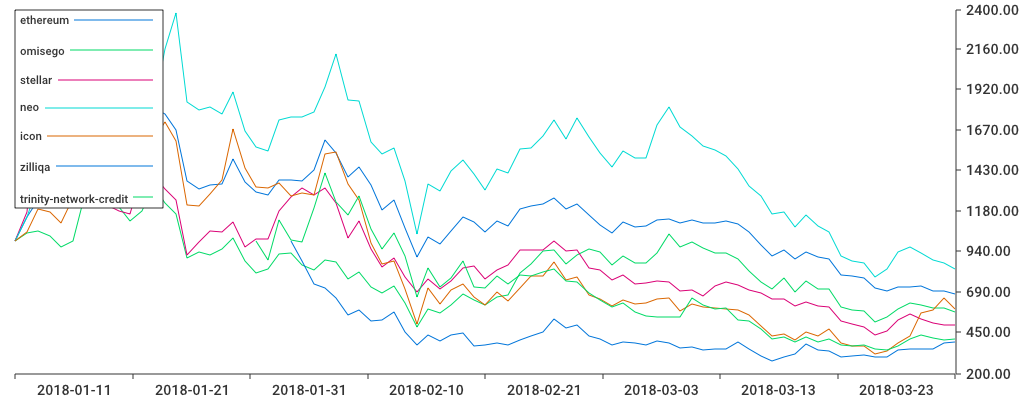
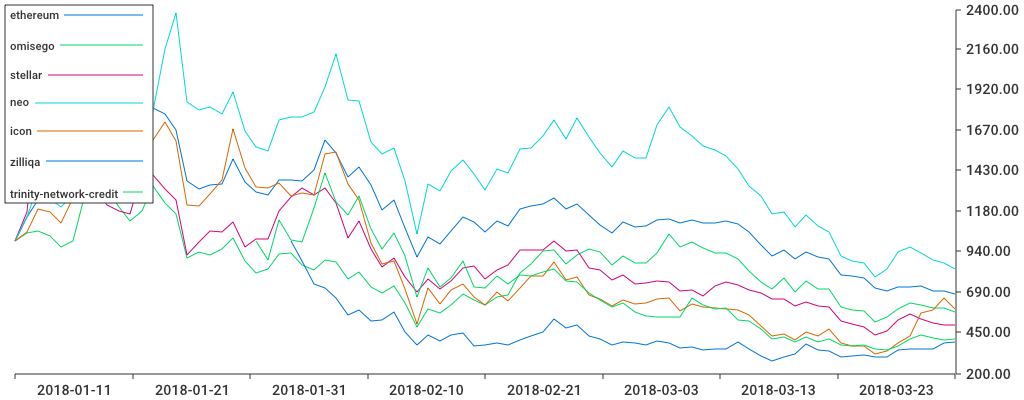
update

Changed region(s): [[0.0, 0.0, 0.1562, 0.54], [0.1562, 0.15, 0.1875, 0.18]]

diff --git a/util/chart.go b/util/chart.go
@@ -166,6 +166,7 @@ func DrawPortfolioComparisonChart(investAmount float64, investDate string, compa
 	logToFile := ""
 	for c := 0; c < len(currencies); c++ {
 		logToFile += "### " + currencies[c] + "\n"
+		logToFile += "[chart](https://raw.githubusercontent.com/cryptocurrencyfund/data/develop/charts/portfolio/" + currencies[c] + ".jpg)"
 		fmt.Println("[" + currencies[c] + "]")
 		for k, v := range allTs[c] {
 			current := fmt.Sprintf("Date bought: %s - Current Date: %s - Valuation: %.2f - Price: %.2f \n",
@@ -205,7 +206,7 @@ func DrawPortfolioComparisonChart(investAmount float64, investDate string, compa
 	}
 
 	graph.Elements = []chart.Renderable{
-		chart.Legend(&graph),
+		chart.LegendLeft(&graph),
 	}
 
 	collector := &chart.ImageWriter{}

diff --git a/charts/portfolio/exchanges.md b/charts/portfolio/exchanges.md
@@ -1,5 +1,5 @@
 ### binance-coin
-* Date bought: 2018-01-01 - Current Date: 2018-03-24 00:00:00 +0000 UTC - Valuation: 1556.48 - Price: 13.09 
+[chart](https://raw.githubusercontent.com/cryptocurrencyfund/data/develop/charts/portfolio/binance-coin.jpg)* Date bought: 2018-01-01 - Current Date: 2018-03-24 00:00:00 +0000 UTC - Valuation: 1556.48 - Price: 13.09 
 * Date bought: 2018-01-01 - Current Date: 2018-03-23 00:00:00 +0000 UTC - Valuation: 1395.96 - Price: 11.74 
 * Date bought: 2018-01-01 - Current Date: 2018-03-22 00:00:00 +0000 UTC - Valuation: 1197.38 - Price: 10.07 
 * Date bought: 2018-01-01 - Current Date: 2018-03-21 00:00:00 +0000 UTC - Valuation: 1186.68 - Price: 9.98 
@@ -83,7 +83,7 @@
 * Date bought: 2018-01-01 - Current Date: 2018-01-02 00:00:00 +0000 UTC - Valuation: 1051.13 - Price: 8.84 
 * Date bought: 2018-01-01 - Current Date: 2018-01-01 00:00:00 +0000 UTC - Valuation: 1000.00 - Price: 8.41 
 ### augur
-* Date bought: 2018-01-01 - Current Date: 2018-03-24 00:00:00 +0000 UTC - Valuation: 466.57 - Price: 34.75 
+[chart](https://raw.githubusercontent.com/cryptocurrencyfund/data/develop/charts/portfolio/augur.jpg)* Date bought: 2018-01-01 - Current Date: 2018-03-24 00:00:00 +0000 UTC - Valuation: 466.57 - Price: 34.75 
 * Date bought: 2018-01-01 - Current Date: 2018-03-23 00:00:00 +0000 UTC - Valuation: 472.48 - Price: 35.19 
 * Date bought: 2018-01-01 - Current Date: 2018-03-22 00:00:00 +0000 UTC - Valuation: 472.48 - Price: 35.19 
 * Date bought: 2018-01-01 - Current Date: 2018-03-21 00:00:00 +0000 UTC - Valuation: 485.37 - Price: 36.15 
@@ -167,7 +167,7 @@
 * Date bought: 2018-01-01 - Current Date: 2018-01-02 00:00:00 +0000 UTC - Valuation: 1067.00 - Price: 79.47 
 * Date bought: 2018-01-01 - Current Date: 2018-01-01 00:00:00 +0000 UTC - Valuation: 1000.00 - Price: 74.48 
 ### gnosis-gno
-* Date bought: 2018-01-01 - Current Date: 2018-03-24 00:00:00 +0000 UTC - Valuation: 345.71 - Price: 78.50 
+[chart](https://raw.githubusercontent.com/cryptocurrencyfund/data/develop/charts/portfolio/gnosis-gno.jpg)* Date bought: 2018-01-01 - Current Date: 2018-03-24 00:00:00 +0000 UTC - Valuation: 345.71 - Price: 78.50 
 * Date bought: 2018-01-01 - Current Date: 2018-03-23 00:00:00 +0000 UTC - Valuation: 357.55 - Price: 81.19 
 * Date bought: 2018-01-01 - Current Date: 2018-03-22 00:00:00 +0000 UTC - Valuation: 373.85 - Price: 84.89 
 * Date bought: 2018-01-01 - Current Date: 2018-03-21 00:00:00 +0000 UTC - Valuation: 397.06 - Price: 90.16 
@@ -251,7 +251,7 @@
 * Date bought: 2018-01-01 - Current Date: 2018-01-02 00:00:00 +0000 UTC - Valuation: 1182.94 - Price: 268.61 
 * Date bought: 2018-01-01 - Current Date: 2018-01-01 00:00:00 +0000 UTC - Valuation: 1000.00 - Price: 227.07 
 ### 0x
-* Date bought: 2018-01-01 - Current Date: 2018-03-24 00:00:00 +0000 UTC - Valuation: 681.20 - Price: 0.60 
+[chart](https://raw.githubusercontent.com/cryptocurrencyfund/data/develop/charts/portfolio/0x.jpg)* Date bought: 2018-01-01 - Current Date: 2018-03-24 00:00:00 +0000 UTC - Valuation: 681.20 - Price: 0.60 
 * Date bought: 2018-01-01 - Current Date: 2018-03-23 00:00:00 +0000 UTC - Valuation: 631.48 - Price: 0.55 
 * Date bought: 2018-01-01 - Current Date: 2018-03-22 00:00:00 +0000 UTC - Valuation: 659.00 - Price: 0.58 
 * Date bought: 2018-01-01 - Current Date: 2018-03-21 00:00:00 +0000 UTC - Valuation: 663.15 - Price: 0.58 
@@ -335,7 +335,7 @@
 * Date bought: 2018-01-01 - Current Date: 2018-01-02 00:00:00 +0000 UTC - Valuation: 1021.60 - Price: 0.90 
 * Date bought: 2018-01-01 - Current Date: 2018-01-01 00:00:00 +0000 UTC - Valuation: 1000.00 - Price: 0.88 
 ### kyber-network
-* Date bought: 2018-01-01 - Current Date: 2018-03-24 00:00:00 +0000 UTC - Valuation: 470.59 - Price: 1.44 
+[chart](https://raw.githubusercontent.com/cryptocurrencyfund/data/develop/charts/portfolio/kyber-network.jpg)* Date bought: 2018-01-01 - Current Date: 2018-03-24 00:00:00 +0000 UTC - Valuation: 470.59 - Price: 1.44 
 * Date bought: 2018-01-01 - Current Date: 2018-03-23 00:00:00 +0000 UTC - Valuation: 441.18 - Price: 1.35 
 * Date bought: 2018-01-01 - Current Date: 2018-03-22 00:00:00 +0000 UTC - Valuation: 421.57 - Price: 1.29 
 * Date bought: 2018-01-01 - Current Date: 2018-03-21 00:00:00 +0000 UTC - Valuation: 431.37 - Price: 1.32 
@@ -419,7 +419,7 @@
 * Date bought: 2018-01-01 - Current Date: 2018-01-02 00:00:00 +0000 UTC - Valuation: 1117.65 - Price: 3.42 
 * Date bought: 2018-01-01 - Current Date: 2018-01-01 00:00:00 +0000 UTC - Valuation: 1000.00 - Price: 3.06 
 ### bancor
-* Date bought: 2018-01-01 - Current Date: 2018-03-24 00:00:00 +0000 UTC - Valuation: 555.97 - Price: 2.98 
+[chart](https://raw.githubusercontent.com/cryptocurrencyfund/data/develop/charts/portfolio/bancor.jpg)* Date bought: 2018-01-01 - Current Date: 2018-03-24 00:00:00 +0000 UTC - Valuation: 555.97 - Price: 2.98 
 * Date bought: 2018-01-01 - Current Date: 2018-03-23 00:00:00 +0000 UTC - Valuation: 569.03 - Price: 3.05 
 * Date bought: 2018-01-01 - Current Date: 2018-03-22 00:00:00 +0000 UTC - Valuation: 559.70 - Price: 3.00 
 * Date bought: 2018-01-01 - Current Date: 2018-03-21 00:00:00 +0000 UTC - Valuation: 578.36 - Price: 3.10 
@@ -503,7 +503,7 @@
 * Date bought: 2018-01-01 - Current Date: 2018-01-02 00:00:00 +0000 UTC - Valuation: 1121.27 - Price: 6.01 
 * Date bought: 2018-01-01 - Current Date: 2018-01-01 00:00:00 +0000 UTC - Valuation: 1000.00 - Price: 5.36 
 ### airswap
-* Date bought: 2018-01-01 - Current Date: 2018-03-24 00:00:00 +0000 UTC - Valuation: 535.35 - Price: 0.31 
+[chart](https://raw.githubusercontent.com/cryptocurrencyfund/data/develop/charts/portfolio/airswap.jpg)* Date bought: 2018-01-01 - Current Date: 2018-03-24 00:00:00 +0000 UTC - Valuation: 535.35 - Price: 0.31 
 * Date bought: 2018-01-01 - Current Date: 2018-03-23 00:00:00 +0000 UTC - Valuation: 482.14 - Price: 0.28 
 * Date bought: 2018-01-01 - Current Date: 2018-03-22 00:00:00 +0000 UTC - Valuation: 508.01 - Price: 0.30 
 * Date bought: 2018-01-01 - Current Date: 2018-03-21 00:00:00 +0000 UTC - Valuation: 545.93 - Price: 0.32 
@@ -587,7 +587,7 @@
 * Date bought: 2018-01-01 - Current Date: 2018-01-02 00:00:00 +0000 UTC - Valuation: 944.07 - Price: 0.55 
 * Date bought: 2018-01-01 - Current Date: 2018-01-01 00:00:00 +0000 UTC - Valuation: 1000.00 - Price: 0.59 
 ### republic-protocol
-* Date bought: 2018-01-01 - Current Date: 2018-03-24 00:00:00 +0000 UTC - Valuation: 545.17 - Price: 0.05 
+[chart](https://raw.githubusercontent.com/cryptocurrencyfund/data/develop/charts/portfolio/republic-protocol.jpg)* Date bought: 2018-01-01 - Current Date: 2018-03-24 00:00:00 +0000 UTC - Valuation: 545.17 - Price: 0.05 
 * Date bought: 2018-01-01 - Current Date: 2018-03-23 00:00:00 +0000 UTC - Valuation: 560.13 - Price: 0.05 
 * Date bought: 2018-01-01 - Current Date: 2018-03-22 00:00:00 +0000 UTC - Valuation: 592.40 - Price: 0.05 
 * Date bought: 2018-01-01 - Current Date: 2018-03-21 00:00:00 +0000 UTC - Valuation: 585.36 - Price: 0.05 

diff --git a/charts/portfolio/large cap.md b/charts/portfolio/large cap.md
@@ -1,5 +1,5 @@
 ### bitcoin
-* Date bought: 2018-01-01 - Current Date: 2018-03-24 00:00:00 +0000 UTC - Valuation: 634.69 - Price: 8668.12 
+[chart](https://raw.githubusercontent.com/cryptocurrencyfund/data/develop/charts/portfolio/bitcoin.jpg)* Date bought: 2018-01-01 - Current Date: 2018-03-24 00:00:00 +0000 UTC - Valuation: 634.69 - Price: 8668.12 
 * Date bought: 2018-01-01 - Current Date: 2018-03-23 00:00:00 +0000 UTC - Valuation: 650.18 - Price: 8879.62 
 * Date bought: 2018-01-01 - Current Date: 2018-03-22 00:00:00 +0000 UTC - Valuation: 639.11 - Price: 8728.47 
 * Date bought: 2018-01-01 - Current Date: 2018-03-21 00:00:00 +0000 UTC - Valuation: 653.81 - Price: 8929.28 
@@ -83,7 +83,7 @@
 * Date bought: 2018-01-01 - Current Date: 2018-01-02 00:00:00 +0000 UTC - Valuation: 1097.01 - Price: 14982.10 
 * Date bought: 2018-01-01 - Current Date: 2018-01-01 00:00:00 +0000 UTC - Valuation: 1000.00 - Price: 13657.20 
 ### ethereum
-* Date bought: 2018-01-01 - Current Date: 2018-03-24 00:00:00 +0000 UTC - Valuation: 681.35 - Price: 526.44 
+[chart](https://raw.githubusercontent.com/cryptocurrencyfund/data/develop/charts/portfolio/ethereum.jpg)* Date bought: 2018-01-01 - Current Date: 2018-03-24 00:00:00 +0000 UTC - Valuation: 681.35 - Price: 526.44 
 * Date bought: 2018-01-01 - Current Date: 2018-03-23 00:00:00 +0000 UTC - Valuation: 698.41 - Price: 539.62 
 * Date bought: 2018-01-01 - Current Date: 2018-03-22 00:00:00 +0000 UTC - Valuation: 698.51 - Price: 539.70 
 * Date bought: 2018-01-01 - Current Date: 2018-03-21 00:00:00 +0000 UTC - Valuation: 727.03 - Price: 561.73 
@@ -167,7 +167,7 @@
 * Date bought: 2018-01-01 - Current Date: 2018-01-02 00:00:00 +0000 UTC - Valuation: 1144.70 - Price: 884.44 
 * Date bought: 2018-01-01 - Current Date: 2018-01-01 00:00:00 +0000 UTC - Valuation: 1000.00 - Price: 772.64 
 ### ripple
-* Date bought: 2018-01-01 - Current Date: 2018-03-24 00:00:00 +0000 UTC - Valuation: 268.31 - Price: 0.64 
+[chart](https://raw.githubusercontent.com/cryptocurrencyfund/data/develop/charts/portfolio/ripple.jpg)* Date bought: 2018-01-01 - Current Date: 2018-03-24 00:00:00 +0000 UTC - Valuation: 268.31 - Price: 0.64 
 * Date bought: 2018-01-01 - Current Date: 2018-03-23 00:00:00 +0000 UTC - Valuation: 269.11 - Price: 0.64 
 * Date bought: 2018-01-01 - Current Date: 2018-03-22 00:00:00 +0000 UTC - Valuation: 277.30 - Price: 0.66 
 * Date bought: 2018-01-01 - Current Date: 2018-03-21 00:00:00 +0000 UTC - Valuation: 290.24 - Price: 0.69 
@@ -251,7 +251,7 @@
 * Date bought: 2018-01-01 - Current Date: 2018-01-02 00:00:00 +0000 UTC - Valuation: 1037.66 - Price: 2.48 
 * Date bought: 2018-01-01 - Current Date: 2018-01-01 00:00:00 +0000 UTC - Valuation: 1000.00 - Price: 2.39 
 ### litecoin
-* Date bought: 2018-01-01 - Current Date: 2018-03-24 00:00:00 +0000 UTC - Valuation: 696.98 - Price: 159.63 
+[chart](https://raw.githubusercontent.com/cryptocurrencyfund/data/develop/charts/portfolio/litecoin.jpg)* Date bought: 2018-01-01 - Current Date: 2018-03-24 00:00:00 +0000 UTC - Valuation: 696.98 - Price: 159.63 
 * Date bought: 2018-01-01 - Current Date: 2018-03-23 00:00:00 +0000 UTC - Valuation: 732.79 - Price: 167.83 
 * Date bought: 2018-01-01 - Current Date: 2018-03-22 00:00:00 +0000 UTC - Valuation: 714.62 - Price: 163.67 
 * Date bought: 2018-01-01 - Current Date: 2018-03-21 00:00:00 +0000 UTC - Valuation: 738.11 - Price: 169.05 
@@ -335,7 +335,7 @@
 * Date bought: 2018-01-01 - Current Date: 2018-01-02 00:00:00 +0000 UTC - Valuation: 1116.36 - Price: 255.68 
 * Date bought: 2018-01-01 - Current Date: 2018-01-01 00:00:00 +0000 UTC - Valuation: 1000.00 - Price: 229.03 
 ### bitcoin-cash
-* Date bought: 2018-01-01 - Current Date: 2018-03-24 00:00:00 +0000 UTC - Valuation: 403.82 - Price: 982.30 
+[chart](https://raw.githubusercontent.com/cryptocurrencyfund/data/develop/charts/portfolio/bitcoin-cash.jpg)* Date bought: 2018-01-01 - Current Date: 2018-03-24 00:00:00 +0000 UTC - Valuation: 403.82 - Price: 982.30 
 * Date bought: 2018-01-01 - Current Date: 2018-03-23 00:00:00 +0000 UTC - Valuation: 419.08 - Price: 1019.43 
 * Date bought: 2018-01-01 - Current Date: 2018-03-22 00:00:00 +0000 UTC - Valuation: 415.83 - Price: 1011.52 
 * Date bought: 2018-01-01 - Current Date: 2018-03-21 00:00:00 +0000 UTC - Valuation: 424.84 - Price: 1033.45 
@@ -419,7 +419,7 @@
 * Date bought: 2018-01-01 - Current Date: 2018-01-02 00:00:00 +0000 UTC - Valuation: 1114.47 - Price: 2711.00 
 * Date bought: 2018-01-01 - Current Date: 2018-01-01 00:00:00 +0000 UTC - Valuation: 1000.00 - Price: 2432.54 
 ### zcash
-* Date bought: 2018-01-01 - Current Date: 2018-03-24 00:00:00 +0000 UTC - Valuation: 421.58 - Price: 243.33 
+[chart](https://raw.githubusercontent.com/cryptocurrencyfund/data/develop/charts/portfolio/zcash.jpg)* Date bought: 2018-01-01 - Current Date: 2018-03-24 00:00:00 +0000 UTC - Valuation: 421.58 - Price: 243.33 
 * Date bought: 2018-01-01 - Current Date: 2018-03-23 00:00:00 +0000 UTC - Valuation: 445.04 - Price: 256.87 
 * Date bought: 2018-01-01 - Current Date: 2018-03-22 00:00:00 +0000 UTC - Valuation: 431.85 - Price: 249.26 
 * Date bought: 2018-01-01 - Current Date: 2018-03-21 00:00:00 +0000 UTC - Valuation: 450.58 - Price: 260.07 
@@ -503,7 +503,7 @@
 * Date bought: 2018-01-01 - Current Date: 2018-01-02 00:00:00 +0000 UTC - Valuation: 1010.95 - Price: 583.51 
 * Date bought: 2018-01-01 - Current Date: 2018-01-01 00:00:00 +0000 UTC - Valuation: 1000.00 - Price: 577.19 
 ### monero
-* Date bought: 2018-01-01 - Current Date: 2018-03-24 00:00:00 +0000 UTC - Valuation: 582.63 - Price: 209.16 
+[chart](https://raw.githubusercontent.com/cryptocurrencyfund/data/develop/charts/portfolio/monero.jpg)* Date bought: 2018-01-01 - Current Date: 2018-03-24 00:00:00 +0000 UTC - Valuation: 582.63 - Price: 209.16 
 * Date bought: 2018-01-01 - Current Date: 2018-03-23 00:00:00 +0000 UTC - Valuation: 595.87 - Price: 213.91 
 * Date bought: 2018-01-01 - Current Date: 2018-03-22 00:00:00 +0000 UTC - Valuation: 592.52 - Price: 212.71 
 * Date bought: 2018-01-01 - Current Date: 2018-03-21 00:00:00 +0000 UTC - Valuation: 609.01 - Price: 218.63 

diff --git a/charts/portfolio/protocol.md b/charts/portfolio/protocol.md
@@ -1,5 +1,5 @@
 ### ethereum
-* Date bought: 2018-01-01 - Current Date: 2018-03-24 00:00:00 +0000 UTC - Valuation: 681.35 - Price: 526.44 
+[chart](https://raw.githubusercontent.com/cryptocurrencyfund/data/develop/charts/portfolio/ethereum.jpg)* Date bought: 2018-01-01 - Current Date: 2018-03-24 00:00:00 +0000 UTC - Valuation: 681.35 - Price: 526.44 
 * Date bought: 2018-01-01 - Current Date: 2018-03-23 00:00:00 +0000 UTC - Valuation: 698.41 - Price: 539.62 
 * Date bought: 2018-01-01 - Current Date: 2018-03-22 00:00:00 +0000 UTC - Valuation: 698.51 - Price: 539.70 
 * Date bought: 2018-01-01 - Current Date: 2018-03-21 00:00:00 +0000 UTC - Valuation: 727.03 - Price: 561.73 
@@ -83,7 +83,7 @@
 * Date bought: 2018-01-01 - Current Date: 2018-01-02 00:00:00 +0000 UTC - Valuation: 1144.70 - Price: 884.44 
 * Date bought: 2018-01-01 - Current Date: 2018-01-01 00:00:00 +0000 UTC - Valuation: 1000.00 - Price: 772.64 
 ### omisego
-* Date bought: 2018-01-01 - Current Date: 2018-03-24 00:00:00 +0000 UTC - Valuation: 574.24 - Price: 11.10 
+[chart](https://raw.githubusercontent.com/cryptocurrencyfund/data/develop/charts/portfolio/omisego.jpg)* Date bought: 2018-01-01 - Current Date: 2018-03-24 00:00:00 +0000 UTC - Valuation: 574.24 - Price: 11.10 
 * Date bought: 2018-01-01 - Current Date: 2018-03-23 00:00:00 +0000 UTC - Valuation: 594.93 - Price: 11.50 
 * Date bought: 2018-01-01 - Current Date: 2018-03-22 00:00:00 +0000 UTC - Valuation: 598.55 - Price: 11.57 
 * Date bought: 2018-01-01 - Current Date: 2018-03-21 00:00:00 +0000 UTC - Valuation: 613.55 - Price: 11.86 
@@ -167,7 +167,7 @@
 * Date bought: 2018-01-01 - Current Date: 2018-01-02 00:00:00 +0000 UTC - Valuation: 1050.18 - Price: 20.30 
 * Date bought: 2018-01-01 - Current Date: 2018-01-01 00:00:00 +0000 UTC - Valuation: 1000.00 - Price: 19.33 
 ### stellar
-* Date bought: 2018-01-01 - Current Date: 2018-03-24 00:00:00 +0000 UTC - Valuation: 490.45 - Price: 0.24 
+[chart](https://raw.githubusercontent.com/cryptocurrencyfund/data/develop/charts/portfolio/stellar.jpg)* Date bought: 2018-01-01 - Current Date: 2018-03-24 00:00:00 +0000 UTC - Valuation: 490.45 - Price: 0.24 
 * Date bought: 2018-01-01 - Current Date: 2018-03-23 00:00:00 +0000 UTC - Valuation: 491.96 - Price: 0.24 
 * Date bought: 2018-01-01 - Current Date: 2018-03-22 00:00:00 +0000 UTC - Valuation: 506.68 - Price: 0.24 
 * Date bought: 2018-01-01 - Current Date: 2018-03-21 00:00:00 +0000 UTC - Valuation: 530.48 - Price: 0.25 
@@ -251,7 +251,7 @@
 * Date bought: 2018-01-01 - Current Date: 2018-01-02 00:00:00 +0000 UTC - Valuation: 1176.58 - Price: 0.56 
 * Date bought: 2018-01-01 - Current Date: 2018-01-01 00:00:00 +0000 UTC - Valuation: 1000.00 - Price: 0.48 
 ### neo
-* Date bought: 2018-01-01 - Current Date: 2018-03-24 00:00:00 +0000 UTC - Valuation: 833.93 - Price: 65.73 
+[chart](https://raw.githubusercontent.com/cryptocurrencyfund/data/develop/charts/portfolio/neo.jpg)* Date bought: 2018-01-01 - Current Date: 2018-03-24 00:00:00 +0000 UTC - Valuation: 833.93 - Price: 65.73 
 * Date bought: 2018-01-01 - Current Date: 2018-03-23 00:00:00 +0000 UTC - Valuation: 869.83 - Price: 68.56 
 * Date bought: 2018-01-01 - Current Date: 2018-03-22 00:00:00 +0000 UTC - Valuation: 883.53 - Price: 69.64 
 * Date bought: 2018-01-01 - Current Date: 2018-03-21 00:00:00 +0000 UTC - Valuation: 925.53 - Price: 72.95 
@@ -335,7 +335,7 @@
 * Date bought: 2018-01-01 - Current Date: 2018-01-02 00:00:00 +0000 UTC - Valuation: 1146.03 - Price: 90.33 
 * Date bought: 2018-01-01 - Current Date: 2018-01-01 00:00:00 +0000 UTC - Valuation: 1000.00 - Price: 78.82 
 ### icon
-* Date bought: 2018-01-01 - Current Date: 2018-03-24 00:00:00 +0000 UTC - Valuation: 590.91 - Price: 3.64 
+[chart](https://raw.githubusercontent.com/cryptocurrencyfund/data/develop/charts/portfolio/icon.jpg)* Date bought: 2018-01-01 - Current Date: 2018-03-24 00:00:00 +0000 UTC - Valuation: 590.91 - Price: 3.64 
 * Date bought: 2018-01-01 - Current Date: 2018-03-23 00:00:00 +0000 UTC - Valuation: 659.09 - Price: 4.06 
 * Date bought: 2018-01-01 - Current Date: 2018-03-22 00:00:00 +0000 UTC - Valuation: 582.79 - Price: 3.59 
 * Date bought: 2018-01-01 - Current Date: 2018-03-21 00:00:00 +0000 UTC - Valuation: 563.31 - Price: 3.47 
@@ -419,7 +419,7 @@
 * Date bought: 2018-01-01 - Current Date: 2018-01-02 00:00:00 +0000 UTC - Valuation: 1053.57 - Price: 6.49 
 * Date bought: 2018-01-01 - Current Date: 2018-01-01 00:00:00 +0000 UTC - Valuation: 1000.00 - Price: 6.16 
 ### zilliqa
-* Date bought: 2018-01-01 - Current Date: 2018-03-24 00:00:00 +0000 UTC - Valuation: 391.54 - Price: 0.05 
+[chart](https://raw.githubusercontent.com/cryptocurrencyfund/data/develop/charts/portfolio/zilliqa.jpg)* Date bought: 2018-01-01 - Current Date: 2018-03-24 00:00:00 +0000 UTC - Valuation: 391.54 - Price: 0.05 
 * Date bought: 2018-01-01 - Current Date: 2018-03-23 00:00:00 +0000 UTC - Valuation: 385.71 - Price: 0.05 
 * Date bought: 2018-01-01 - Current Date: 2018-03-22 00:00:00 +0000 UTC - Valuation: 349.54 - Price: 0.05 
 * Date bought: 2018-01-01 - Current Date: 2018-03-21 00:00:00 +0000 UTC - Valuation: 348.11 - Price: 0.05 
@@ -479,7 +479,7 @@
 * Date bought: 2018-01-01 - Current Date: 2018-01-26 00:00:00 +0000 UTC - Valuation: 877.51 - Price: 0.12 
 * Date bought: 2018-01-01 - Current Date: 2018-01-25 00:00:00 +0000 UTC - Valuation: 1000.00 - Price: 0.14 
 ### trinity-network-credit
-* Date bought: 2018-01-01 - Current Date: 2018-03-24 00:00:00 +0000 UTC - Valuation: 410.78 - Price: 0.11 
+[chart](https://raw.githubusercontent.com/cryptocurrencyfund/data/develop/charts/portfolio/trinity-network-credit.jpg)* Date bought: 2018-01-01 - Current Date: 2018-03-24 00:00:00 +0000 UTC - Valuation: 410.78 - Price: 0.11 
 * Date bought: 2018-01-01 - Current Date: 2018-03-23 00:00:00 +0000 UTC - Valuation: 399.49 - Price: 0.11 
 * Date bought: 2018-01-01 - Current Date: 2018-03-22 00:00:00 +0000 UTC - Valuation: 413.98 - Price: 0.11 
 * Date bought: 2018-01-01 - Current Date: 2018-03-21 00:00:00 +0000 UTC - Valuation: 434.86 - Price: 0.12 

diff --git a/charts/portfolio/asia.md b/charts/portfolio/asia.md
@@ -1,5 +1,5 @@
 ### neo
-* Date bought: 2018-01-01 - Current Date: 2018-03-24 00:00:00 +0000 UTC - Valuation: 833.93 - Price: 65.73 
+[chart](https://raw.githubusercontent.com/cryptocurrencyfund/data/develop/charts/portfolio/neo.jpg)* Date bought: 2018-01-01 - Current Date: 2018-03-24 00:00:00 +0000 UTC - Valuation: 833.93 - Price: 65.73 
 * Date bought: 2018-01-01 - Current Date: 2018-03-23 00:00:00 +0000 UTC - Valuation: 869.83 - Price: 68.56 
 * Date bought: 2018-01-01 - Current Date: 2018-03-22 00:00:00 +0000 UTC - Valuation: 883.53 - Price: 69.64 
 * Date bought: 2018-01-01 - Current Date: 2018-03-21 00:00:00 +0000 UTC - Valuation: 925.53 - Price: 72.95 
@@ -83,7 +83,7 @@
 * Date bought: 2018-01-01 - Current Date: 2018-01-02 00:00:00 +0000 UTC - Valuation: 1146.03 - Price: 90.33 
 * Date bought: 2018-01-01 - Current Date: 2018-01-01 00:00:00 +0000 UTC - Valuation: 1000.00 - Price: 78.82 
 ### tron
-* Date bought: 2018-01-01 - Current Date: 2018-03-24 00:00:00 +0000 UTC - Valuation: 962.96 - Price: 0.05 
+[chart](https://raw.githubusercontent.com/cryptocurrencyfund/data/develop/charts/portfolio/tron.jpg)* Date bought: 2018-01-01 - Current Date: 2018-03-24 00:00:00 +0000 UTC - Valuation: 962.96 - Price: 0.05 
 * Date bought: 2018-01-01 - Current Date: 2018-03-23 00:00:00 +0000 UTC - Valuation: 795.76 - Price: 0.04 
 * Date bought: 2018-01-01 - Current Date: 2018-03-22 00:00:00 +0000 UTC - Valuation: 733.61 - Price: 0.04 
 * Date bought: 2018-01-01 - Current Date: 2018-03-21 00:00:00 +0000 UTC - Valuation: 717.81 - Price: 0.04 
@@ -167,7 +167,7 @@
 * Date bought: 2018-01-01 - Current Date: 2018-01-02 00:00:00 +0000 UTC - Valuation: 1522.04 - Price: 0.08 
 * Date bought: 2018-01-01 - Current Date: 2018-01-01 00:00:00 +0000 UTC - Valuation: 1000.00 - Price: 0.05 
 ### trinity-network-credit
-* Date bought: 2018-01-01 - Current Date: 2018-03-24 00:00:00 +0000 UTC - Valuation: 410.78 - Price: 0.11 
+[chart](https://raw.githubusercontent.com/cryptocurrencyfund/data/develop/charts/portfolio/trinity-network-credit.jpg)* Date bought: 2018-01-01 - Current Date: 2018-03-24 00:00:00 +0000 UTC - Valuation: 410.78 - Price: 0.11 
 * Date bought: 2018-01-01 - Current Date: 2018-03-23 00:00:00 +0000 UTC - Valuation: 399.49 - Price: 0.11 
 * Date bought: 2018-01-01 - Current Date: 2018-03-22 00:00:00 +0000 UTC - Valuation: 413.98 - Price: 0.11 
 * Date bought: 2018-01-01 - Current Date: 2018-03-21 00:00:00 +0000 UTC - Valuation: 434.86 - Price: 0.12 
@@ -230,7 +230,7 @@
 * Date bought: 2018-01-01 - Current Date: 2018-01-23 00:00:00 +0000 UTC - Valuation: 888.33 - Price: 0.24 
 * Date bought: 2018-01-01 - Current Date: 2018-01-22 00:00:00 +0000 UTC - Valuation: 1000.00 - Price: 0.27 
 ### icon
-* Date bought: 2018-01-01 - Current Date: 2018-03-24 00:00:00 +0000 UTC - Valuation: 590.91 - Price: 3.64 
+[chart](https://raw.githubusercontent.com/cryptocurrencyfund/data/develop/charts/portfolio/icon.jpg)* Date bought: 2018-01-01 - Current Date: 2018-03-24 00:00:00 +0000 UTC - Valuation: 590.91 - Price: 3.64 
 * Date bought: 2018-01-01 - Current Date: 2018-03-23 00:00:00 +0000 UTC - Valuation: 659.09 - Price: 4.06 
 * Date bought: 2018-01-01 - Current Date: 2018-03-22 00:00:00 +0000 UTC - Valuation: 582.79 - Price: 3.59 
 * Date bought: 2018-01-01 - Current Date: 2018-03-21 00:00:00 +0000 UTC - Valuation: 563.31 - Price: 3.47 
@@ -314,7 +314,7 @@
 * Date bought: 2018-01-01 - Current Date: 2018-01-02 00:00:00 +0000 UTC - Valuation: 1053.57 - Price: 6.49 
 * Date bought: 2018-01-01 - Current Date: 2018-01-01 00:00:00 +0000 UTC - Valuation: 1000.00 - Price: 6.16 
 ### ontology
-* Date bought: 2018-01-01 - Current Date: 2018-03-24 00:00:00 +0000 UTC - Valuation: 503.52 - Price: 1.43 
+[chart](https://raw.githubusercontent.com/cryptocurrencyfund/data/develop/charts/portfolio/ontology.jpg)* Date bought: 2018-01-01 - Current Date: 2018-03-24 00:00:00 +0000 UTC - Valuation: 503.52 - Price: 1.43 
 * Date bought: 2018-01-01 - Current Date: 2018-03-23 00:00:00 +0000 UTC - Valuation: 482.39 - Price: 1.37 
 * Date bought: 2018-01-01 - Current Date: 2018-03-22 00:00:00 +0000 UTC - Valuation: 461.27 - Price: 1.31 
 * Date bought: 2018-01-01 - Current Date: 2018-03-21 00:00:00 +0000 UTC - Valuation: 496.48 - Price: 1.41 
@@ -332,7 +332,7 @@
 * Date bought: 2018-01-01 - Current Date: 2018-03-09 00:00:00 +0000 UTC - Valuation: 577.46 - Price: 1.64 
 * Date bought: 2018-01-01 - Current Date: 2018-03-08 00:00:00 +0000 UTC - Valuation: 1000.00 - Price: 2.84 
 ### storm
-* Date bought: 2018-01-01 - Current Date: 2018-03-24 00:00:00 +0000 UTC - Valuation: 784.30 - Price: 0.05 
+[chart](https://raw.githubusercontent.com/cryptocurrencyfund/data/develop/charts/portfolio/storm.jpg)* Date bought: 2018-01-01 - Current Date: 2018-03-24 00:00:00 +0000 UTC - Valuation: 784.30 - Price: 0.05 
 * Date bought: 2018-01-01 - Current Date: 2018-03-23 00:00:00 +0000 UTC - Valuation: 1045.19 - Price: 0.07 
 * Date bought: 2018-01-01 - Current Date: 2018-03-22 00:00:00 +0000 UTC - Valuation: 371.56 - Price: 0.03 
 * Date bought: 2018-01-01 - Current Date: 2018-03-21 00:00:00 +0000 UTC - Valuation: 398.16 - Price: 0.03 
@@ -416,7 +416,7 @@
 * Date bought: 2018-01-01 - Current Date: 2018-01-02 00:00:00 +0000 UTC - Valuation: 1462.66 - Price: 0.10 
 * Date bought: 2018-01-01 - Current Date: 2018-01-01 00:00:00 +0000 UTC - Valuation: 1000.00 - Price: 0.07 
 ### bytom
-* Date bought: 2018-01-01 - Current Date: 2018-03-24 00:00:00 +0000 UTC - Valuation: 1031.95 - Price: 0.38 
+[chart](https://raw.githubusercontent.com/cryptocurrencyfund/data/develop/charts/portfolio/bytom.jpg)* Date bought: 2018-01-01 - Current Date: 2018-03-24 00:00:00 +0000 UTC - Valuation: 1031.95 - Price: 0.38 
 * Date bought: 2018-01-01 - Current Date: 2018-03-23 00:00:00 +0000 UTC - Valuation: 1045.92 - Price: 0.38 
 * Date bought: 2018-01-01 - Current Date: 2018-03-22 00:00:00 +0000 UTC - Valuation: 955.77 - Price: 0.35 
 * Date bought: 2018-01-01 - Current Date: 2018-03-21 00:00:00 +0000 UTC - Valuation: 963.61 - Price: 0.35 

diff --git a/charts/portfolio/stables.md b/charts/portfolio/stables.md
@@ -1,5 +1,5 @@
 ### maker
-* Date bought: 2018-01-01 - Current Date: 2018-03-24 00:00:00 +0000 UTC - Valuation: 709.95 - Price: 688.72 
+[chart](https://raw.githubusercontent.com/cryptocurrencyfund/data/develop/charts/portfolio/maker.jpg)* Date bought: 2018-01-01 - Current Date: 2018-03-24 00:00:00 +0000 UTC - Valuation: 709.95 - Price: 688.72 
 * Date bought: 2018-01-01 - Current Date: 2018-03-23 00:00:00 +0000 UTC - Valuation: 728.28 - Price: 706.50 
 * Date bought: 2018-01-01 - Current Date: 2018-03-22 00:00:00 +0000 UTC - Valuation: 707.76 - Price: 686.59 
 * Date bought: 2018-01-01 - Current Date: 2018-03-21 00:00:00 +0000 UTC - Valuation: 730.03 - Price: 708.19 
@@ -83,7 +83,7 @@
 * Date bought: 2018-01-01 - Current Date: 2018-01-02 00:00:00 +0000 UTC - Valuation: 1095.85 - Price: 1063.07 
 * Date bought: 2018-01-01 - Current Date: 2018-01-01 00:00:00 +0000 UTC - Valuation: 1000.00 - Price: 970.09 
 ### trust
-* Date bought: 2018-01-01 - Current Date: 2018-03-24 00:00:00 +0000 UTC - Valuation: 272.96 - Price: 0.20 
+[chart](https://raw.githubusercontent.com/cryptocurrencyfund/data/develop/charts/portfolio/trust.jpg)* Date bought: 2018-01-01 - Current Date: 2018-03-24 00:00:00 +0000 UTC - Valuation: 272.96 - Price: 0.20 
 * Date bought: 2018-01-01 - Current Date: 2018-03-23 00:00:00 +0000 UTC - Valuation: 266.75 - Price: 0.19 
 * Date bought: 2018-01-01 - Current Date: 2018-03-22 00:00:00 +0000 UTC - Valuation: 277.54 - Price: 0.20 
 * Date bought: 2018-01-01 - Current Date: 2018-03-21 00:00:00 +0000 UTC - Valuation: 290.05 - Price: 0.21 
@@ -167,7 +167,7 @@
 * Date bought: 2018-01-01 - Current Date: 2018-01-02 00:00:00 +0000 UTC - Valuation: 1181.91 - Price: 0.86 
 * Date bought: 2018-01-01 - Current Date: 2018-01-01 00:00:00 +0000 UTC - Valuation: 1000.00 - Price: 0.73 
 ### digixdao
-* Date bought: 2018-01-01 - Current Date: 2018-03-24 00:00:00 +0000 UTC - Valuation: 2116.07 - Price: 344.75 
+[chart](https://raw.githubusercontent.com/cryptocurrencyfund/data/develop/charts/portfolio/digixdao.jpg)* Date bought: 2018-01-01 - Current Date: 2018-03-24 00:00:00 +0000 UTC - Valuation: 2116.07 - Price: 344.75 
 * Date bought: 2018-01-01 - Current Date: 2018-03-23 00:00:00 +0000 UTC - Valuation: 2165.97 - Price: 352.88 
 * Date bought: 2018-01-01 - Current Date: 2018-03-22 00:00:00 +0000 UTC - Valuation: 2198.13 - Price: 358.12 
 * Date bought: 2018-01-01 - Current Date: 2018-03-21 00:00:00 +0000 UTC - Valuation: 2296.34 - Price: 374.12 
@@ -251,7 +251,7 @@
 * Date bought: 2018-01-01 - Current Date: 2018-01-02 00:00:00 +0000 UTC - Valuation: 1075.50 - Price: 175.22 
 * Date bought: 2018-01-01 - Current Date: 2018-01-01 00:00:00 +0000 UTC - Valuation: 1000.00 - Price: 162.92 
 ### dai
-* Date bought: 2018-01-01 - Current Date: 2018-03-24 00:00:00 +0000 UTC - Valuation: 1008.55 - Price: 1.00 
+[chart](https://raw.githubusercontent.com/cryptocurrencyfund/data/develop/charts/portfolio/dai.jpg)* Date bought: 2018-01-01 - Current Date: 2018-03-24 00:00:00 +0000 UTC - Valuation: 1008.55 - Price: 1.00 
 * Date bought: 2018-01-01 - Current Date: 2018-03-23 00:00:00 +0000 UTC - Valuation: 1007.25 - Price: 1.00 
 * Date bought: 2018-01-01 - Current Date: 2018-03-22 00:00:00 +0000 UTC - Valuation: 1010.00 - Price: 1.00 
 * Date bought: 2018-01-01 - Current Date: 2018-03-21 00:00:00 +0000 UTC - Valuation: 1009.68 - Price: 1.00 
@@ -335,7 +335,7 @@
 * Date bought: 2018-01-01 - Current Date: 2018-01-02 00:00:00 +0000 UTC - Valuation: 997.75 - Price: 0.99 
 * Date bought: 2018-01-01 - Current Date: 2018-01-01 00:00:00 +0000 UTC - Valuation: 1000.00 - Price: 0.99 
 ### tether
-* Date bought: 2018-01-01 - Current Date: 2018-03-24 00:00:00 +0000 UTC - Valuation: 1000.00 - Price: 1.01 
+[chart](https://raw.githubusercontent.com/cryptocurrencyfund/data/develop/charts/portfolio/tether.jpg)* Date bought: 2018-01-01 - Current Date: 2018-03-24 00:00:00 +0000 UTC - Valuation: 1000.00 - Price: 1.01 
 * Date bought: 2018-01-01 - Current Date: 2018-03-23 00:00:00 +0000 UTC - Valuation: 980.43 - Price: 0.99 
 * Date bought: 2018-01-01 - Current Date: 2018-03-22 00:00:00 +0000 UTC - Valuation: 989.09 - Price: 1.00 
 * Date bought: 2018-01-01 - Current Date: 2018-03-21 00:00:00 +0000 UTC - Valuation: 989.35 - Price: 1.00 

diff --git a/charts/portfolio/utility.md b/charts/portfolio/utility.md
@@ -1,5 +1,5 @@
 ### basic-attention-token
-* Date bought: 2018-01-01 - Current Date: 2018-03-24 00:00:00 +0000 UTC - Valuation: 452.10 - Price: 0.22 
+[chart](https://raw.githubusercontent.com/cryptocurrencyfund/data/develop/charts/portfolio/basic-attention-token.jpg)* Date bought: 2018-01-01 - Current Date: 2018-03-24 00:00:00 +0000 UTC - Valuation: 452.10 - Price: 0.22 
 * Date bought: 2018-01-01 - Current Date: 2018-03-23 00:00:00 +0000 UTC - Valuation: 445.46 - Price: 0.21 
 * Date bought: 2018-01-01 - Current Date: 2018-03-22 00:00:00 +0000 UTC - Valuation: 436.55 - Price: 0.21 
 * Date bought: 2018-01-01 - Current Date: 2018-03-21 00:00:00 +0000 UTC - Valuation: 437.66 - Price: 0.21 
@@ -83,7 +83,7 @@
 * Date bought: 2018-01-01 - Current Date: 2018-01-02 00:00:00 +0000 UTC - Valuation: 1184.40 - Price: 0.56 
 * Date bought: 2018-01-01 - Current Date: 2018-01-01 00:00:00 +0000 UTC - Valuation: 1000.00 - Price: 0.48 
 ### golem-network-tokens
-* Date bought: 2018-01-01 - Current Date: 2018-03-24 00:00:00 +0000 UTC - Valuation: 261.41 - Price: 0.24 
+[chart](https://raw.githubusercontent.com/cryptocurrencyfund/data/develop/charts/portfolio/golem-network-tokens.jpg)* Date bought: 2018-01-01 - Current Date: 2018-03-24 00:00:00 +0000 UTC - Valuation: 261.41 - Price: 0.24 
 * Date bought: 2018-01-01 - Current Date: 2018-03-23 00:00:00 +0000 UTC - Valuation: 266.89 - Price: 0.25 
 * Date bought: 2018-01-01 - Current Date: 2018-03-22 00:00:00 +0000 UTC - Valuation: 263.97 - Price: 0.25 
 * Date bought: 2018-01-01 - Current Date: 2018-03-21 00:00:00 +0000 UTC - Valuation: 269.28 - Price: 0.25 
@@ -167,7 +167,7 @@
 * Date bought: 2018-01-01 - Current Date: 2018-01-02 00:00:00 +0000 UTC - Valuation: 1169.49 - Price: 1.09 
 * Date bought: 2018-01-01 - Current Date: 2018-01-01 00:00:00 +0000 UTC - Valuation: 1000.00 - Price: 0.93 
 ### request-network
-* Date bought: 2018-01-01 - Current Date: 2018-03-24 00:00:00 +0000 UTC - Valuation: 282.25 - Price: 0.23 
+[chart](https://raw.githubusercontent.com/cryptocurrencyfund/data/develop/charts/portfolio/request-network.jpg)* Date bought: 2018-01-01 - Current Date: 2018-03-24 00:00:00 +0000 UTC - Valuation: 282.25 - Price: 0.23 
 * Date bought: 2018-01-01 - Current Date: 2018-03-23 00:00:00 +0000 UTC - Valuation: 256.79 - Price: 0.21 
 * Date bought: 2018-01-01 - Current Date: 2018-03-22 00:00:00 +0000 UTC - Valuation: 275.37 - Price: 0.23 
 * Date bought: 2018-01-01 - Current Date: 2018-03-21 00:00:00 +0000 UTC - Valuation: 292.72 - Price: 0.24 
@@ -251,7 +251,7 @@
 * Date bought: 2018-01-01 - Current Date: 2018-01-02 00:00:00 +0000 UTC - Valuation: 955.40 - Price: 0.78 
 * Date bought: 2018-01-01 - Current Date: 2018-01-01 00:00:00 +0000 UTC - Valuation: 1000.00 - Price: 0.82 
 ### funfair
-* Date bought: 2018-01-01 - Current Date: 2018-03-24 00:00:00 +0000 UTC - Valuation: 479.08 - Price: 0.04 
+[chart](https://raw.githubusercontent.com/cryptocurrencyfund/data/develop/charts/portfolio/funfair.jpg)* Date bought: 2018-01-01 - Current Date: 2018-03-24 00:00:00 +0000 UTC - Valuation: 479.08 - Price: 0.04 
 * Date bought: 2018-01-01 - Current Date: 2018-03-23 00:00:00 +0000 UTC - Valuation: 474.35 - Price: 0.04 
 * Date bought: 2018-01-01 - Current Date: 2018-03-22 00:00:00 +0000 UTC - Valuation: 459.30 - Price: 0.04 
 * Date bought: 2018-01-01 - Current Date: 2018-03-21 00:00:00 +0000 UTC - Valuation: 474.91 - Price: 0.04 
